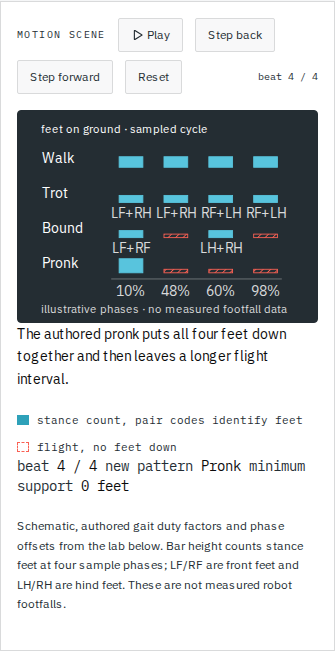
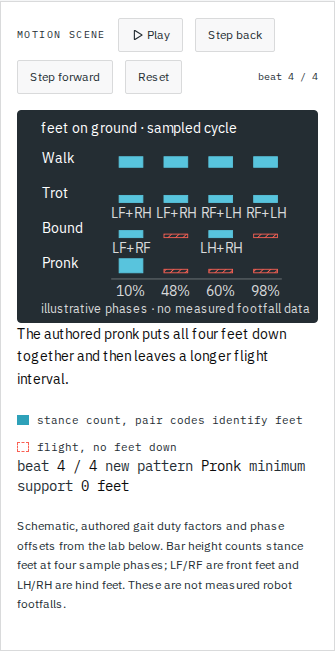
Make gait and batch-scale diagram labels easier to read on phones
- Enlarge headings and notes in the gait and batch-scale diagrams.
- Shorten the batch-scale recap to keep the larger text within the diagram.

Changed region(s): [[0.1194, 0.4608, 0.9254, 0.4916], [0.1194, 0.1843, 0.7164, 0.2151]]

diff --git a/scripts/check-motion-tokens.ts b/scripts/check-motion-tokens.ts
@@ -45,14 +45,66 @@ interface Rule {
   id: TokenViolation['rule'];
   pattern: RegExp;
   /** Further excludes context the rule must not flag (id references). */
-  except?: (line: string, match: string, index: number) => boolean;
+  except?: (
+    line: string,
+    match: string,
+    index: number,
+    source: string,
+    offset: number,
+    timingDeclarations: { start: number; end: number }[],
+  ) => boolean;
 }
 
-const timingValue = (line: string, index: number) =>
-  /(?:transition|animation)(?:TimingFunction|-timing-function)?\s*:\s*[^;]*$/i
-    .test(line.slice(0, index));
-const tokenProperty = (line: string, match: string, index: number) =>
-  /^(?:\s*:\s*['"]?)var\(--[\w-]+\)/.test(line.slice(index + match.length));
+/** CSS declarations may span lines; TS/JSX style properties may be quoted. */
+function timingDeclarationRanges(source: string): { start: number; end: number }[] {
+  const timingKey = '(?:transition|animation)(?:-timing-function|TimingFunction)?';
+  const starts = new RegExp(
+    // A quoted object key closes before its colon; a CSS declaration inside
+    // a quoted string has only the opening quote before the property name.
+    `(?:^|[;{},\\n])\\s*(?:(['"\`])${timingKey}\\1|${timingKey})\\s*:|['"\`]${timingKey}\\s*:`,
+    'gm',
+  );
+  const ranges: { start: number; end: number }[] = [];
+  for (const match of source.matchAll(starts)) {
+    let cursor = match.index + match[0].length;
+    while (/\s/.test(source[cursor] ?? '')) cursor += 1;
+    const start = cursor;
+    const quote = source[cursor];
+    const outerQuote = /['"`]/.test(source[match.index]) ? source[match.index] : null;
+    if (quote === '"' || quote === "'" || quote === '`') {
+      cursor += 1;
+      while (cursor < source.length) {
+        if (source[cursor] === '\\') cursor += 2;
+        else if (source[cursor++] === quote) break;
+      }
+    } else {
+      while (cursor < source.length && !/[;}]/.test(source[cursor])) {
+        if (outerQuote && source[cursor] === outerQuote) break;
+        // A comma introducing another style object property ends the value;
+        // a comma separating CSS transitions/animations does not.
+        if (source[cursor] === ',' && /^\s*[\w-]+\s*:/.test(source.slice(cursor + 1))) break;
+        cursor += 1;
+      }
+    }
+    ranges.push({ start, end: cursor });
+  }
+  return ranges;
+}
+
+const timingValue = (ranges: { start: number; end: number }[], index: number) =>
+  ranges.some(({ start, end }) => index >= start && index < end);
+const tokenProperty = (source: string, match: string, index: number) => {
+  let tail = source.slice(index + match.length);
+  const keyQuote = source[index - 1];
+  if (keyQuote === "'" || keyQuote === '"' || keyQuote === '`') {
+    const closing = tail.match(/^\s*(['"`])/);
+    if (closing) {
+      if (closing[1] !== keyQuote) return false;
+      tail = tail.slice(closing[0].length);
+    }
+  }
+  return /^\s*:\s*['"`]?\s*var\(--[\w-]+\)/.test(tail);
+};
 
 const RULES: Rule[] = [
   {
@@ -74,18 +126,18 @@ const RULES: Rule[] = [
   {
     id: 'easing',
     pattern:
-      /(?<![\w-])ease(?:-(?:in-out|in|out|linear))?(?![\w-])|(?<![\w-])(?:steps|linear)\s*\(|cubic-bezier\s*\(|(?:transition|animation)(?:-timing-function|TimingFunction)/g,
-    except: (line, match, index) =>
-      /^(?:ease|steps|linear)/.test(match) && !timingValue(line, index) &&
+      /(?<![\w-])ease(?:-(?:in-out|in|out|linear))?(?![\w-])|(?<![\w-])(?:steps\s*\(|linear(?:\s*\(|(?![\w-])))|cubic-bezier\s*\(|(?:transition|animation)(?:-timing-function|TimingFunction)/g,
+    except: (_line, match, _index, source, offset, declarations) =>
+      /^(?:ease|steps|linear)/.test(match) && !timingValue(declarations, offset) &&
         !/^ease-(?:in-out|in|out|linear)$/.test(match) ||
-      /^(?:transition|animation)/.test(match) && tokenProperty(line, match, index),
+      /^(?:transition|animation)/.test(match) && tokenProperty(source, match, offset),
   },
   {
     id: 'duration',
     pattern:
       /\b(?:transition|animation)(?:-duration|Duration)\b|\bduration-\d|\bdelay-\d|\b\d+(?:\.\d+)?(?:ms|s)\b/g,
-    except: (line, match, index) =>
-      /^(?:transition|animation)/.test(match) && tokenProperty(line, match, index),
+    except: (_line, match, _index, source, offset) =>
+      /^(?:transition|animation)/.test(match) && tokenProperty(source, match, offset),
   },
 ];
 
@@ -99,13 +151,15 @@ export function scanMotionSourcesForViolations(
     if (options.exemptPaths.has(path)) continue;
     const text = readFileSync(path, 'utf8');
     const lines = text.split('\n');
+    const declarations = timingDeclarationRanges(text);
     for (const rule of RULES) {
+      let lineOffset = 0;
       for (let lineNumber = 0; lineNumber < lines.length; lineNumber += 1) {
         const line = lines[lineNumber];
         rule.pattern.lastIndex = 0;
         let match: RegExpExecArray | null;
         while ((match = rule.pattern.exec(line)) !== null) {
-          if (rule.except?.(line, match[0], match.index)) continue;
+          if (rule.except?.(line, match[0], match.index, text, lineOffset + match.index, declarations)) continue;
           violations.push({
             file: path,
             line: lineNumber + 1,
@@ -113,6 +167,7 @@ export function scanMotionSourcesForViolations(
             snippet: line.trim().slice(0, 120),
           });
         }
+        lineOffset += line.length + 1;
       }
     }
   }

diff --git a/tests/unit/motion-token-check.test.ts b/tests/unit/motion-token-check.test.ts
@@ -78,9 +78,71 @@ describe('motion token check', () => {
   });
 
   it.each([
+    'transition: opacity var(--motion-beat)\n  ease;',
+    'transition:\n  opacity var(--motion-beat)\n  ease-out;',
+    'animation: reveal var(--motion-beat)\n  ease;',
+    'animation:\n  reveal var(--motion-beat)\n  linear;',
+    'animation: reveal var(--motion-beat)\n  steps(4, end);',
+    'transition: opacity var(--motion-beat)\n  linear(0, 1);',
+    "style={{ transition: 'opacity var(--motion-beat)\\n  ease' }}",
+    "style={{ animation: 'reveal var(--motion-beat)\\n  ease' }}",
+    'style={{ animation: `reveal var(--motion-beat)\n  ease` }}',
+    "const css = 'transition: opacity var(--motion-beat)\\n  ease';",
+  ])('rejects literal easing in a complete multiline declaration: %s', (source) => {
+    const path = write('components/motion/multiline.tsx', source);
+    const violations = scanMotionSourcesForViolations([path], {
+      exemptPaths: new Set(),
+    });
+    expect(violations).toContainEqual(expect.objectContaining({
+      rule: 'easing',
+      line: source.includes('\\n') ? 1 : source.split('\n').length,
+    }));
+  });
+
+  it.each([
+    { source: "style={{ 'transition': 'opacity var(--motion-beat) ease' }}", line: 1, literal: 'ease' },
+    { source: 'style={{ "transition": "opacity var(--motion-beat) linear" }}', line: 1, literal: 'linear' },
+    { source: "style={{ 'animation': 'reveal var(--motion-beat) ease' }}", line: 1, literal: 'ease' },
+    { source: 'style={{ "animation": `reveal var(--motion-beat)\n  steps(4, end)` }}', line: 2, literal: 'steps(' },
+    { source: "style={{\n  'transition': `opacity var(--motion-beat)\n    ease`\n}}", line: 3, literal: 'ease' },
+    { source: 'style={{\n  "animation": `reveal var(--motion-beat)\n    linear`\n}}', line: 3, literal: 'linear' },
+    { source: "style={{ 'transition-timing-function': `\n  ease` }}", line: 2, literal: 'ease' },
+    { source: 'style={{ "animationTimingFunction": `reveal\n  steps(2, end)` }}', line: 2, literal: 'steps(' },
+  ])('rejects literal easing inside a quoted timing key: $source', ({ source, line, literal }) => {
+    const path = write('components/motion/quoted-key.tsx', source);
+    const violations = scanMotionSourcesForViolations([path], {
+      exemptPaths: new Set(),
+    });
+    expect(violations, source).toContainEqual(expect.objectContaining({
+      rule: 'easing',
+      line,
+      snippet: expect.stringContaining(literal),
+    }));
+  });
+
+  it.each([
+    "style={{ 'transition': 'opacity var(--motion-beat) var(--motion-ease-smooth)' }}",
+    'style={{ "animation": `reveal var(--motion-beat)\n  var(--motion-ease-smooth)` }}',
+    "style={{ 'transition-timing-function': 'var(--motion-ease-smooth)' }}",
+    'style={{ "animationTimingFunction": "var(--motion-ease-smooth)" }}',
+    "style={{ 'transition-duration': 'var(--motion-beat)' }}",
+    'style={{ "animationDuration": "var(--motion-beat)" }}',
+    "style={{ 'transition': 'opacity var(--motion-beat) var(--motion-ease-smooth)' }}; const linear = (x: number) => x; const value = linear(1) + steps(2); <use href=\"#aabbcc\" />",
+  ])('keeps token-backed quoted timing and non-timing math/IDs: %s', (source) => {
+    const path = write('components/motion/quoted-positive.tsx', source);
+    expect(scanMotionSourcesForViolations([path], { exemptPaths: new Set() })).toEqual([]);
+  });
+
+  it.each([
     'transition: opacity var(--motion-beat) var(--motion-ease-smooth);',
     'transition: opacity var(--brand-transition-short) var(--brand-ease-out);',
+    'transition: opacity var(--motion-beat)\n  var(--motion-ease-smooth);',
+    'animation:\n  reveal var(--motion-beat)\n  var(--motion-ease-smooth);',
+    "style={{ transition: 'opacity var(--motion-beat)\\n  var(--motion-ease-smooth)' }}",
+    'style={{ animation: `reveal var(--motion-beat)\n  var(--motion-ease-smooth)` }}',
     "style={{ transition: 'opacity var(--motion-beat) var(--motion-ease-smooth)' }}",
+    "const css = 'transition: opacity var(--motion-beat)'; const value = linear(x);",
+    'transition: opacity var(--motion-beat) var(--motion-ease-smooth);\nconst value = linear(x) + steps(y);',
     'const steps = (n: number) => n + 1; const linear = (t: number) => t;',
     'const value = linear(x) + steps(y);',
     '<use href="#aabbcc" />',

diff --git a/tests/e2e/motion-rl-sim2real.spec.ts b/tests/e2e/motion-rl-sim2real.spec.ts
@@ -148,14 +148,41 @@ test('paired RL stage labels render at least twelve CSS pixels across every reve
         await page.evaluate(() => document.fonts.ready);
         const scene = page.locator(`[data-motion-scene="${id}"]`);
         const measure = async (beat: string) => {
-          const sizes = await scene.locator('[data-scene-stage-label]').evaluateAll((labels) => labels
-            .filter((label) => Number(getComputedStyle(label).opacity) > 0)
-            .map((label) => {
+          const sizes = await scene.locator('svg.motion-stage-svg text').evaluateAll((labels) => labels
+            .filter((label) => {
               const svg = (label as SVGTextElement).ownerSVGElement!;
-              const viewBox = svg.viewBox.baseVal;
-              return { text: label.textContent, px: Number.parseFloat(getComputedStyle(label).fontSize) * svg.getBoundingClientRect().width / viewBox.width };
+              const box = label.getBoundingClientRect();
+              if (!box.width || !box.height) return false;
+              for (let element: Element | null = label; element && element !== svg.parentElement; element = element.parentElement) {
+                const style = getComputedStyle(element);
+                if (style.display === 'none' || style.visibility !== 'visible' || Number(style.opacity) <= 0) return false;
+              }
+              return true;
+            })
+            .map((label) => {
+              const text = label as SVGTextElement;
+              const scale = text.getScreenCTM();
+              return {
+                text: text.textContent?.trim(),
+                annotated: text.hasAttribute('data-scene-stage-label'),
+                px: Number.parseFloat(getComputedStyle(text).fontSize) * (scale ? Math.hypot(scale.a, scale.b) : 0),
+              };
             }));
           expect(sizes.length, `${id} ${width} ${beat} labels`).toBeGreaterThan(0);
+          expect(sizes.some((label) => !label.annotated), `${id} ${width} ${beat} unannotated text covered`).toBe(true);
+          const texts = sizes.map((label) => label.text);
+          expect(texts, `${id} ${width} ${beat} stage heading`).toContain(
+            id === 'gait-support' ? 'feet on ground · sampled cycle' : 'toy fixed-transition budget',
+          );
+          if (id === 'gait-support') {
+            expect(texts, `${id} ${width} ${beat} toy disclosure`).toContain(
+              'illustrative phases · no measured footfall data',
+            );
+          } else if (beat === 'poster' || beat === 'beat 4') {
+            expect(texts, `${id} ${width} ${beat} recap`).toContain(
+              'same budget · different iteration cost',
+            );
+          }
           for (const label of sizes) expect(label.px, `${id} ${width} ${beat} ${label.text}`).toBeGreaterThanOrEqual(12);
           const audit = await scene.evaluate(auditSceneElement);
           expect(audit.intersections, `${id} ${width} ${beat} intersections`).toEqual([]);

diff --git a/components/motion/scenes/batch-scale.tsx b/components/motion/scenes/batch-scale.tsx
@@ -72,7 +72,7 @@ const cpuCurve = curve(true);
 function BatchScaleStage() {
   return (
     <StageSvg viewBox="0 0 340 240">
-      <text x={28} y={25} fontSize={13} fill="var(--motion-stage-label)">toy fixed-transition budget</text>
+      <text x={28} y={25} fontSize={16} fill="var(--motion-stage-label)">toy fixed-transition budget</text>
       <g data-scene-structure="axes">
         <line x1={LEFT} y1={TOP} x2={LEFT} y2={BOTTOM}
           stroke="var(--motion-stage-axes)" opacity="var(--motion-stage-axes-opacity)" />
@@ -96,10 +96,10 @@ function BatchScaleStage() {
           cy: (t) => y(batchScaleFrame(t).wallSeconds),
           opacity: (t) => eased(t, 0),
         }} />
-      <AnimatedElement as="text" x={28} y={226} fontSize={13}
+      <AnimatedElement as="text" x={28} y={226} fontSize={16}
         fill="var(--motion-stage-label)"
         bindings={{ opacity: (t) => batchScaleFrame(t).recap }}>
-        same experience budget, different iteration cost
+        same budget · different iteration cost
       </AnimatedElement>
     </StageSvg>
   );

diff --git a/components/motion/scenes/gait-support.tsx b/components/motion/scenes/gait-support.tsx
@@ -44,7 +44,7 @@ function GaitSupportStage() {
             stroke="var(--role-constraint-stage)" strokeWidth={2} />
         </pattern>
       </defs>
-      <text x={26} y={25} fontSize={13} fill="var(--motion-stage-label)">feet on ground · sampled cycle</text>
+      <text x={26} y={25} fontSize={16} fill="var(--motion-stage-label)">feet on ground · sampled cycle</text>
       {GAIT_ORDER.map((id, row) => (
         <g key={id}>
           <AnimatedElement as="text" data-scene-stage-label="gait-name" x={27} y={59 + row * 40}
@@ -89,7 +89,7 @@ function GaitSupportStage() {
           x={128 + column * 51} y={210} textAnchor="middle"
           fontSize={16} fill="var(--motion-stage-label-secondary)">{label}</text>
       ))}
-      <text x={26} y={230} fontSize={13} fill="var(--motion-stage-label-secondary)">
+      <text x={26} y={230} fontSize={14} fill="var(--motion-stage-label-secondary)">
         illustrative phases · no measured footfall data
       </text>
     </StageSvg>
